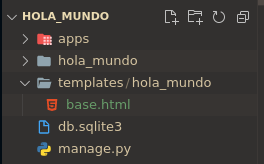
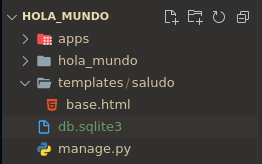
Integra correcciones en el archivo 07_Configurando_templates.md

diff --git a/01_Introduccion/07_Configurando_templates.md b/01_Introduccion/07_Configurando_templates.md
@@ -27,7 +27,7 @@ Ahora comenzaremos a hacer nuestras propias templates para realizar nuestro hola
  <img  src="./assets/templates_hola.png" alt="templates hola"></a>
 </p>
 
-Una vez que hemos creado la carpeta que contendrá las templates de nuetra app "hola_mundo", procederemos a crear la plantilla base para nuestra app. La estructura del nombre de nuestras platilla será la siguiente:
+Una vez que hemos creado la carpeta que contendrá las templates de nuetra app "saludo", procederemos a crear la plantilla base para nuestra app. La estructura del nombre de nuestras platilla será la siguiente:
 ```
 <nombre-plantila>.html
 ```
